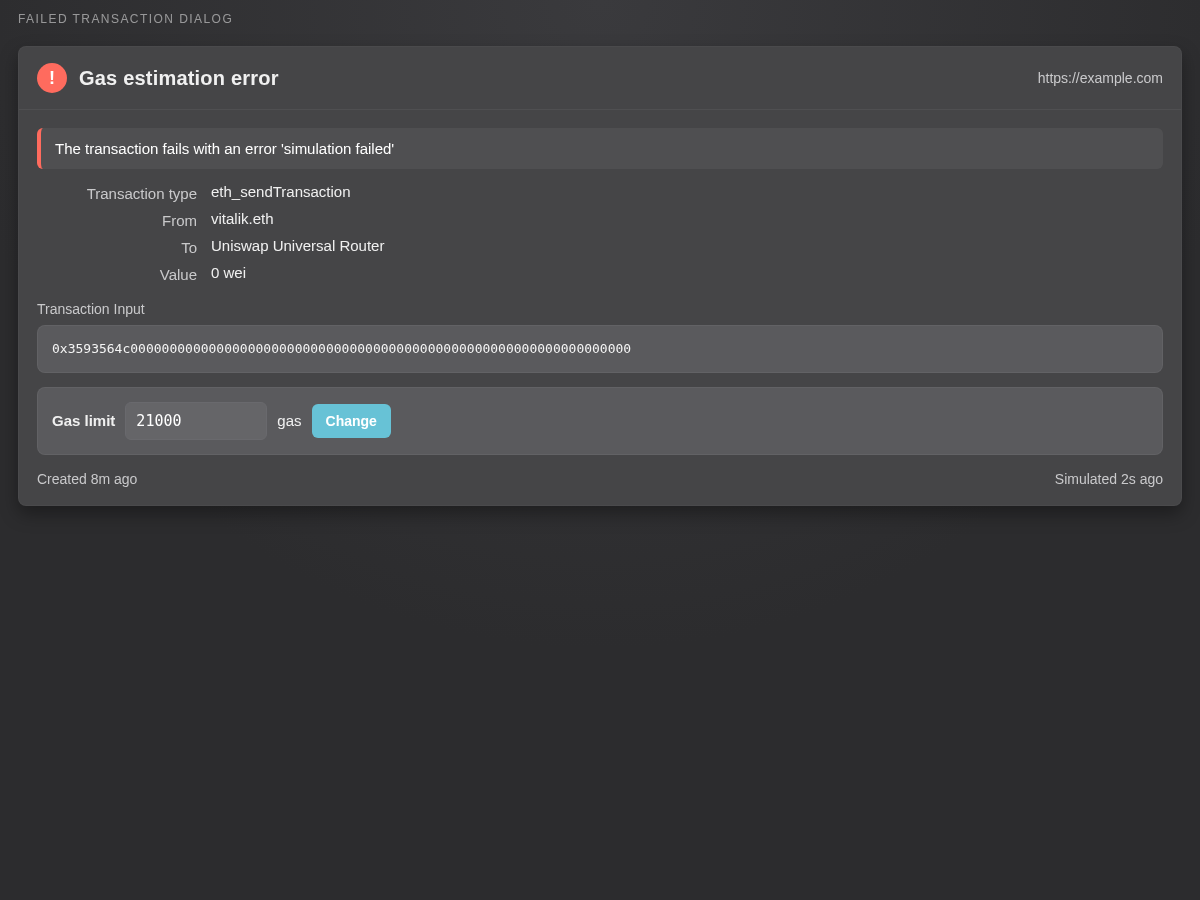
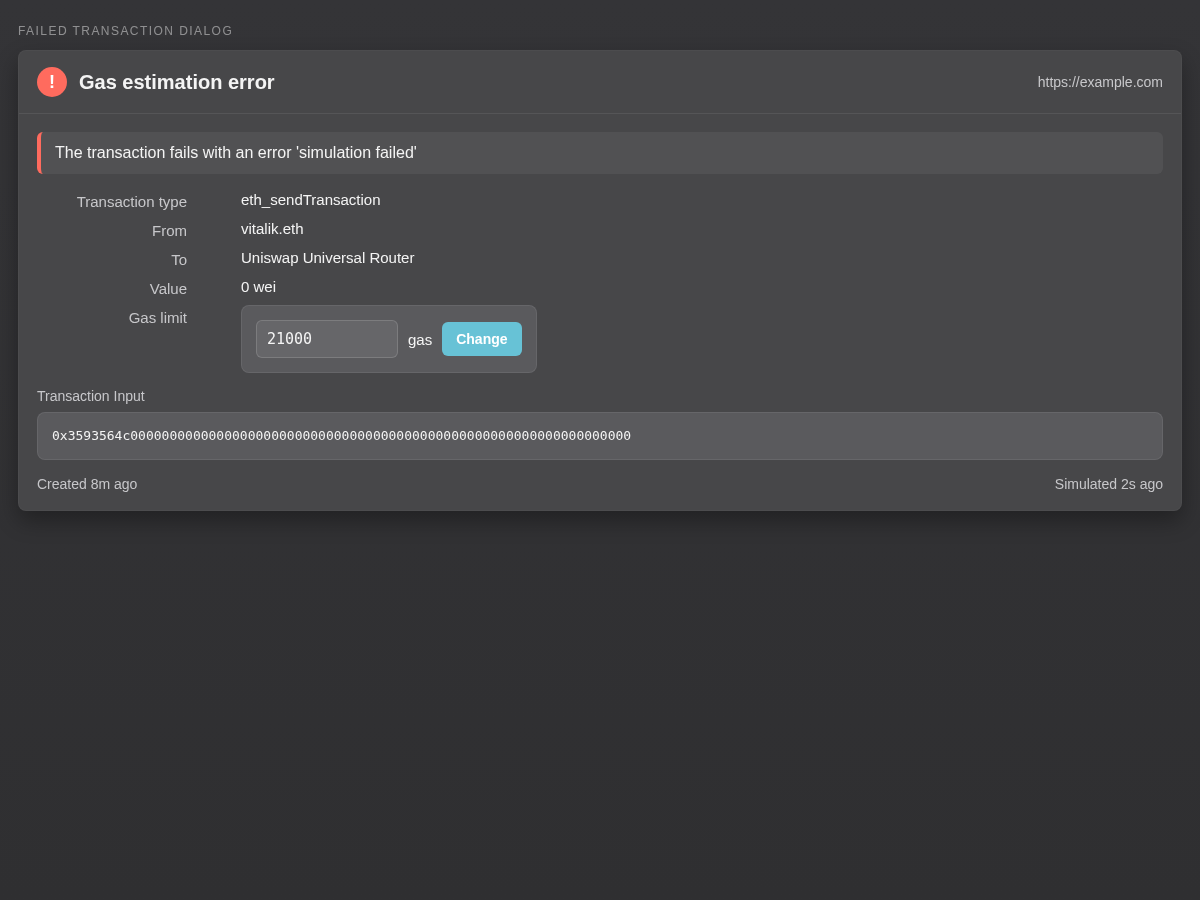
Move failed gas limit editor into transaction preview details
- Exported `GasLimitEditor` and embedded it directly in `FailedTransactionPreviewDetails`.

diff --git a/app/ts/components/pages/ConfirmTransaction.tsx b/app/ts/components/pages/ConfirmTransaction.tsx
@@ -2,7 +2,7 @@ import { useEffect } from 'preact/hooks'
 import { MessageToPopup, UpdateConfirmTransactionDialog, UpdateConfirmTransactionDialogPendingTransactions } from '../../types/interceptor-messages.js'
 import { type CompleteVisualizedSimulation, type EditEnsNamedHashWindowState, type MaybeSimulatedTransaction, type ModifyAddressWindowState, type VisualizedSimulationState, createPassthroughCompleteVisualizedSimulation } from '../../types/visualizer-types.js'
 import Hint from '../subcomponents/Hint.js'
-import { FailedTransactionGasLimitCard, RawTransactionDetailsCard, GasFee, TokenLogAnalysisCard, SimulatedInBlockNumber, TransactionCreated, TransactionHeader, TransactionHeaderForFailedToSimulate, TransactionsAccountChangesCard, NonTokenLogAnalysisCard, getSimulationDisplayBlockNumber } from '../simulationExplaining/SimulationSummary.js'
+import { GasLimitEditor, RawTransactionDetailsCard, GasFee, TokenLogAnalysisCard, SimulatedInBlockNumber, TransactionCreated, TransactionHeader, TransactionHeaderForFailedToSimulate, TransactionsAccountChangesCard, NonTokenLogAnalysisCard, getSimulationDisplayBlockNumber } from '../simulationExplaining/SimulationSummary.js'
 import { CenterToPageTextSpinner, Spinner } from '../subcomponents/Spinner.js'
 import { AddNewAddress } from './AddNewAddress.js'
 import type { RenameAddressCallBack, RpcConnectionStatus } from '../../types/user-interface-types.js'
@@ -160,6 +160,7 @@ type TransactionCardParams = {
 
 function FailedTransactionPreviewDetails({
 	website,
+	transactionIdentifier,
 	originalRequestParameters,
 	addressMetaData,
 	created,
@@ -170,6 +171,7 @@ function FailedTransactionPreviewDetails({
 	currentBlockNumber,
 }: {
 	website: Website
+	transactionIdentifier: bigint
 	originalRequestParameters: OriginalSendRequestParameters
 	addressMetaData: readonly AddressBookEntry[]
 	created: Date
@@ -184,8 +186,9 @@ function FailedTransactionPreviewDetails({
 	const from = request?.from === undefined ? undefined : getAddressBookEntryOrAFiller(addressMetaData, request.from)
 	const to = request?.to === null || request?.to === undefined ? undefined : getAddressBookEntryOrAFiller(addressMetaData, request.to)
 	const input = request === undefined ? new Uint8Array() : request.input ?? request.data ?? new Uint8Array()
+	const gasLimit = request?.gas
 
-	return <div class = 'card'>
+	return <div class = 'card' style = 'margin-top: 10px; margin-bottom: 10px'>
 		<header class = 'card-header'>
 			<div class = 'card-header-icon unset-cursor'>
 				<span class = 'icon'>
@@ -201,9 +204,7 @@ function FailedTransactionPreviewDetails({
 		</header>
 		<div class = 'card-content' style = 'padding-bottom: 5px;'>
 			<div class = 'container'>
-				<ErrorComponent text = { `The transaction fails with an error '${ errorMessage }'` } containerStyle = { { margin: '0px' } } />
-			</div>
-			<div class = 'container' style = 'margin-top: 10px;'>
+				<ErrorComponent text = { `The transaction fails with an error '${ errorMessage }'` } containerStyle = { { margin: '0px', marginBottom: '10px' } } />
 				<dl class = 'grid key-value-pair'>
 					<dt>Transaction type</dt>
 					<dd>{ originalRequestParameters.method }</dd>
@@ -213,22 +214,24 @@ function FailedTransactionPreviewDetails({
 					<dd>{ to === undefined ? 'No receiving Address' : <SmallAddress addressBookEntry = { to } renameAddressCallBack = { () => undefined } /> }</dd>
 					<dt>Value</dt>
 					<dd>{ request?.value === undefined ? 'Unknown' : `${ request.value.toString(10) } wei` }</dd>
+					<dt>Gas limit </dt>
+					<dd>
+						<GasLimitEditor transactionIdentifier = { transactionIdentifier } initialGasLimit = { gasLimit } isRawTransaction = { originalRequestParameters.method === 'eth_sendRawTransaction' } />
+					</dd>
 				</dl>
 			</div>
-				<div style = 'margin-top: 10px;'>
-					<p class = 'paragraph' style = 'color: var(--subtitle-text-color)'>Transaction Input</p>
-					{ rawRequest === undefined
-						? <TransactionInput parsedInputData = { undefined } input = { input } to = { to } addressMetaData = { addressMetaData } renameAddressCallBack = { () => undefined } />
-						: <div class = 'textbox'><pre>{ dataStringWith0xStart(rawRequest) }</pre></div>
-					}
-				</div>
-			<span class = 'log-table' style = 'margin-top: 10px; grid-template-columns: 33.33% 33.33% 33.33%;'>
+			<div style = 'margin-top: 10px;'>
+				<p class = 'paragraph' style = 'color: var(--subtitle-text-color)'>Transaction Input</p>
+				{ rawRequest === undefined
+					? <TransactionInput parsedInputData = { undefined } input = { input } to = { to } addressMetaData = { addressMetaData } renameAddressCallBack = { () => undefined } />
+					: <div class = 'textbox'><pre>{ dataStringWith0xStart(rawRequest) }</pre></div>
+				}
+			</div>
+			<span class = 'log-table' style = 'margin-top: 10px; grid-template-columns: auto auto;'>
 				<div class = 'log-cell'>
-				</div>
-				<div class = 'log-cell' style = 'justify-content: center;'>
 					<TransactionCreated created = { created } />
 				</div>
-				<div class = 'log-cell' style = 'justify-content: right;'>
+				<div class = 'log-cell' style = { { display: 'inline-flex', justifyContent: 'right' } }>
 					<SimulatedInBlockNumber
 						simulationBlockNumber = { simulationBlockNumber }
 						currentBlockNumber = { currentBlockNumber }
@@ -274,11 +277,10 @@ function TransactionCardContent(param: TransactionCardContentParams) {
 		return 'Unknown error'
 	}
 	if (popupVisualisation.statusCode === 'failed' || popupVisualisation.data.transactionToSimulate.success === false) {
-		const failedRequestData = currentPendingTransaction.originalRequestParameters.method === 'eth_sendTransaction' ? currentPendingTransaction.originalRequestParameters.params[0] : undefined
-		const initialGasLimit = currentPendingTransaction.transactionToSimulate.success ? currentPendingTransaction.transactionToSimulate.transaction.gas : failedRequestData?.gas
 		return <>
 			<FailedTransactionPreviewDetails
 				website = { currentPendingTransaction.transactionToSimulate.website }
+				transactionIdentifier = { currentPendingTransaction.transactionIdentifier }
 				originalRequestParameters = { currentPendingTransaction.originalRequestParameters }
 				addressMetaData = { popupVisualisation.statusCode === 'success' ? popupVisualisation.data.addressBookEntries : [] }
 				created = { currentPendingTransaction.created }
@@ -287,11 +289,6 @@ function TransactionCardContent(param: TransactionCardContentParams) {
 				simulationConductedTimestamp = { popupVisualisation.data.simulationState.simulationConductedTimestamp }
 				rpcConnectionStatus = { param.rpcConnectionStatus }
 				currentBlockNumber = { param.currentBlockNumber }
-			/>
-			<FailedTransactionGasLimitCard
-				transactionIdentifier = { currentPendingTransaction.transactionIdentifier }
-				initialGasLimit = { initialGasLimit }
-				isRawTransaction = { currentPendingTransaction.originalRequestParameters.method === 'eth_sendRawTransaction' }
 			/>
 		</>
 	}

diff --git a/app/ts/components/simulationExplaining/SimulationSummary.tsx b/app/ts/components/simulationExplaining/SimulationSummary.tsx
@@ -811,7 +811,7 @@ type GasLimitEditorParams = {
 	isRawTransaction: boolean
 }
 
-function GasLimitEditor({ transactionIdentifier, initialGasLimit, isRawTransaction }: GasLimitEditorParams) {
+export function GasLimitEditor({ transactionIdentifier, initialGasLimit, isRawTransaction }: GasLimitEditorParams) {
 	const gasLimit = useOptionalSignal<bigint>(initialGasLimit)
 
 	async function forceSetGasLimitForTransaction() {